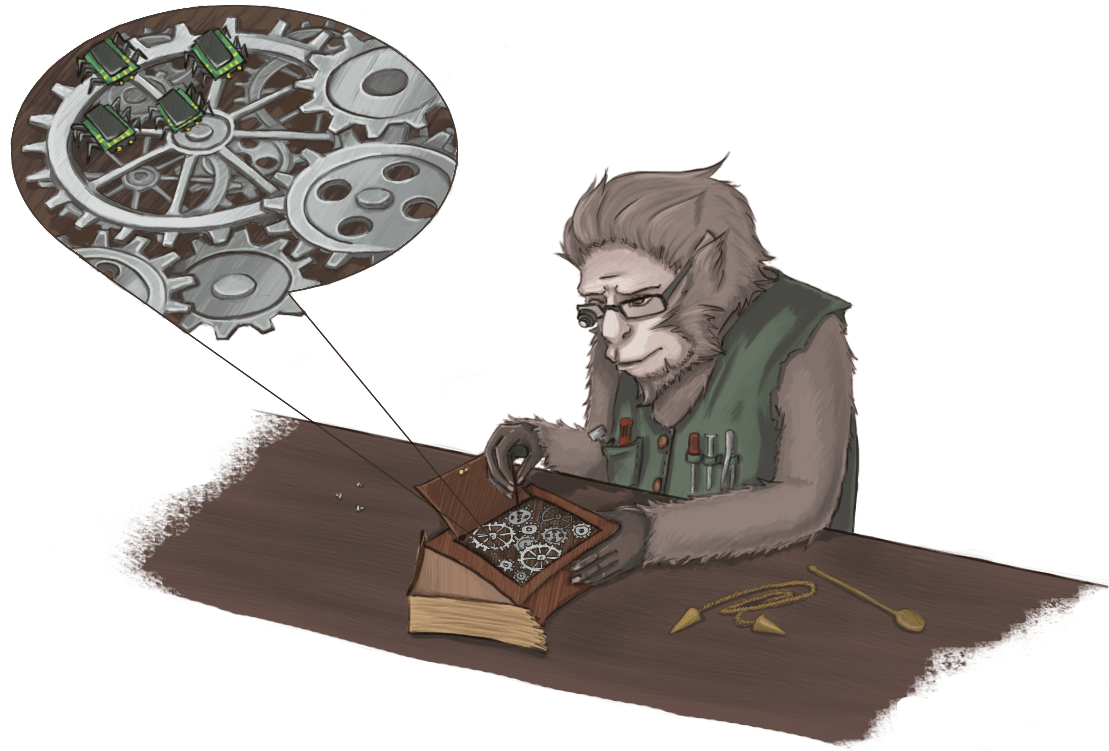
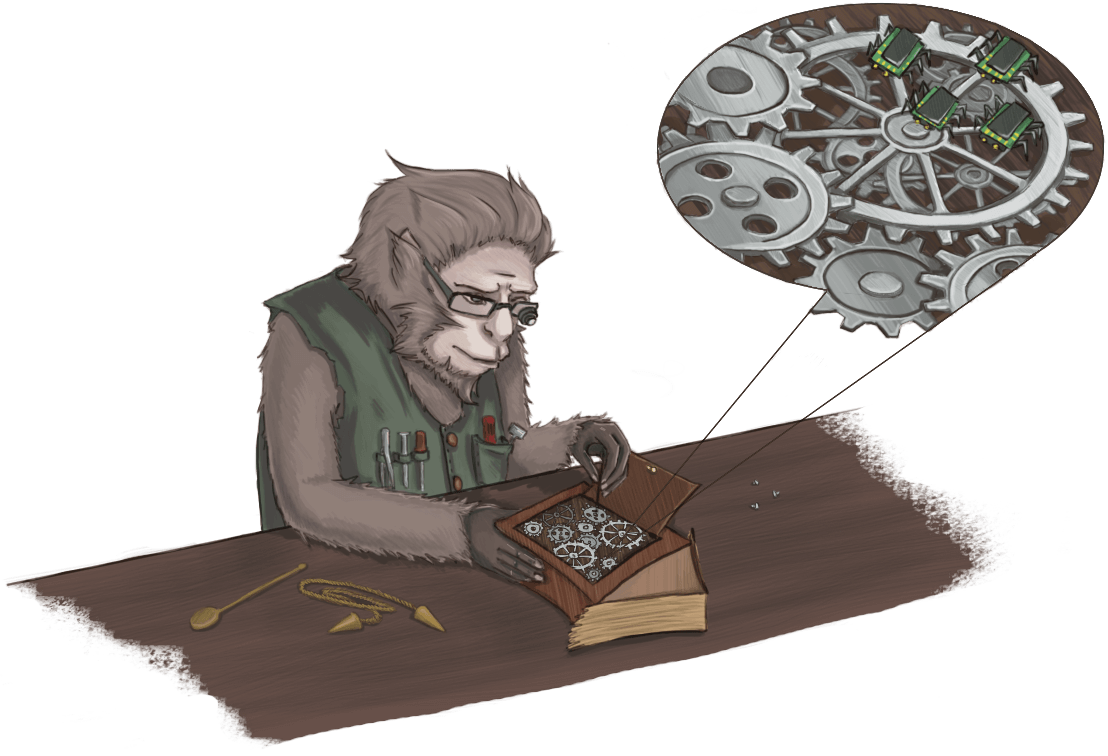
#JC-1854 - Changed to style "image on the right side". Now image is located in the right part of the page, text is on the left. Picture has been changed to mirrored one.

diff --git a/jcommune-view/jcommune-web-view/src/main/webapp/resources/css/app/application.css b/jcommune-view/jcommune-web-view/src/main/webapp/resources/css/app/application.css
@@ -1100,19 +1100,14 @@ pre.prettyprint {
 
 @media (min-width: 640px) {
     .text-500-errorpage {
-        left: 45%;
         position: absolute;
-        padding-right: 15px;
+        max-width: 35%;
     }
 }
 
-@media (max-width: 799px) {
-    .image-500-errorpage {
-        padding-top: 50px;
-    }
-}
 .image-500-errorpage {
     max-height: 500px;
+    padding-left: 25%;
 }
 
 .image-500-errorpage img {
